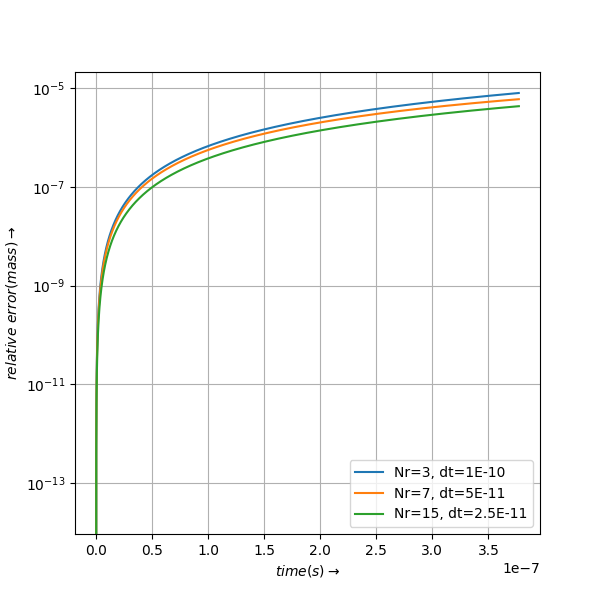
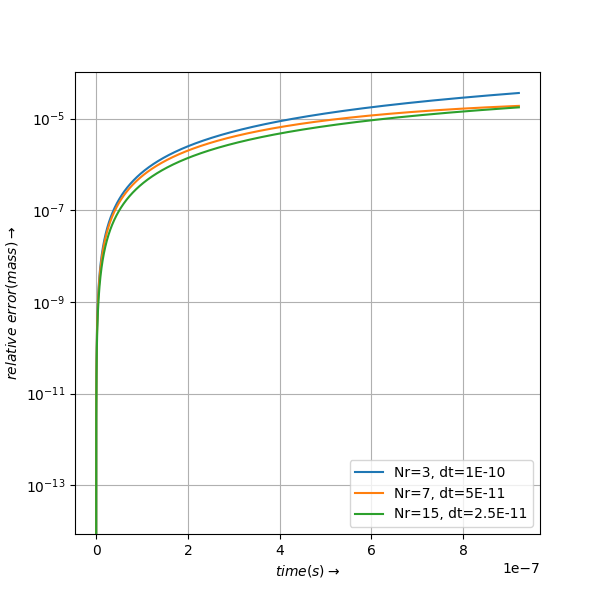
bte notes results minor changes

diff --git a/Notes/bte_notes.tex b/Notes/bte_notes.tex
@@ -533,11 +533,16 @@ This section presents, a numerical evaluation of the spatially homogeneous Boltz
 \end{itemize} The post collision velocities for the above collisions are summerized in \S\ref{sec:col_op_torch}.
 
 \subsection{Eigenmodes of the collision operator}
-For a assembled collision operator $L$, assuming linearity in $L$, we construct matrix, 
+For the assembled collision operator $L$, we construct the matrix, 
 \begin{equation}
 	E_t = Re\left( Q^{-1} \times  \text{diag}(\exp(\lambda_i t)) \times Q \right) 
-\end{equation}, where $L=Q^{-1} \Lambda Q$ is the eigen decomposition of $L$. If $L$ is linear the solution at time $t$ can be written as a linear combination of the columns vectors of $E_t$ where the coefficients are determined by the initial condition of the ODE. (see figures \ref{fig:eig_g_sep} \& \ref{fig:eig_g02_g012}  )
+\end{equation}, where $L=Q^{-1} \Lambda Q$ is the eigen decomposition of $L$. If $L$ is linear the solution at time $t$ can be written as a linear combination of the columns vectors of $E_t$ where the coefficients are determined by the initial condition of the ODE. (see figures \ref{fig:eig_g_sep} \& \ref{fig:eig_g02_g012})
 
+\begin{itemize}
+	\item For G0, first eigenmode ensures (the top right most figure in \ref{fig:eig_g_sep}) that if we start with Maxwellian the solution will stay at maxwellian for shorter periods in time. For longer periods the other modes will grow over time. The above is mainly due to the assembled collission operator is bound to the thermal velocity through the sampling of the experimental cross section data. 
+	\item For G1 and G2, at 1eV $E_t$ is close to the identity matrix, since the probability of triggering a excitation or ionization reaction is low, at 1eV. 
+	\item $E_t$ modes will depend on the background species densities, that scales the differential cross sections. 
+\end{itemize}
 \begin{figure}[!htbp]
 	\includegraphics[width=0.32\textwidth]{fig/g0_Nr_7_eig_ev_1.00E+00_NI_1.00E+18_N0_3.22E+22_NE_1.00E+18.png}
 	\includegraphics[width=0.32\textwidth]{fig/g1_Nr_7_eig_ev_1.00E+00_NI_1.00E+18_N0_3.22E+22_NE_1.00E+18.png}
@@ -553,7 +558,7 @@ For a assembled collision operator $L$, assuming linearity in $L$, we construct 
 \subsection{Handling changing temperature}
 Due to the kinetic energy loss in $e-Ar$ collisions, the thermal velocity decreases with the time. Since we use quadrature points on the normalized velocity (i.e., $\frac{v}{v_th}$) we need transform the solution from one temperature to another. If the temperature drop is significant and if we don't have enough basis functions in the radial direction, the projection between temperature cause an aliasing effect and gives larger tails. 
 
-Let $T_\alpha$ be the current temperature and we want to transform the solution to $T_\beta=T_\alpha + \epsilon$ where $\epsilon \in [-a,a]$ for $a>0$.
+Let $T_\alpha$ be the current temperature and we want to transform the solution to $T_\beta=T_\alpha (1+ \epsilon)$ where $\epsilon \in [-a,a]$ for $a>0$.
 
 \begin{align}
 W_{ij} &= \int_{\reals} M(v_\alpha) P_i(v_\beta) P_j(v_\alpha)dv \label{eq:basis_change}
@@ -567,7 +572,7 @@ W_{ij} &= \frac{n}{\sqrt{\pi}^{3}}  \int_{\reals}  \exp(-v_\alpha^2) P_i (v_\alp
 	\centering
 	\includegraphics[width=0.48\textwidth]{fig/basis_1ev_grid.png}
 	\includegraphics[width=0.48\textwidth]{fig/basis_1ev_tail.png}
-	\caption{The left most figure shows the $f(v)$ expansion evaluated at uniform grid in the radial direction followed by normed difference computation for increasing $N_r$ polynomials. For a given Maxwellian distribution (i.e., $h^{\alpha}=1$) we compute the projection of the solution to $T_\beta=T_\alpha + \epsilon$ with computed $W_{\beta\alpha}$, where $h^{\beta} = W_{\beta \alpha} h^{\alpha}$. The right most figure shows the tail of the computed $h^{\beta}$ with increasing polynomials in the radial direction.  \label{fig:basis_projection_error}
+	\caption{The left most figure shows the $f(v)$ expansion evaluated at uniform grid in the radial direction followed by normed difference computation for increasing $N_r$ polynomials. For a given Maxwellian distribution (i.e., $h^{\alpha}=1$) we compute the projection of the solution to $T_\beta=T_\alpha (1+\epsilon)$ with computed $W_{\beta\alpha}$, where $h^{\beta} = W_{\beta \alpha} h^{\alpha}$. The right most figure shows the tail of the computed $h^{\beta}$ with increasing polynomials in the radial direction.  \label{fig:basis_projection_error}
 	}
 \end{figure}
 \begin{figure}[!hbtp]
@@ -651,8 +656,9 @@ Therefore, for the convergence study it is reasonable to use a quadrature grid s
 
 \begin{figure}[H]
 	\centering
-	\includegraphics[width=0.8\textwidth]{fig/g0_temp_convergence.png}
-	\caption{Relative error in temperature compared at matching time points taking $N_r=31,dt=1.25E-11$ as the baseline over time horizon $T$=1e-06 s for G0 collision operator. }
+	\includegraphics[width=0.49\textwidth]{fig/g0_temp_convergence.png}
+	\includegraphics[width=0.49\textwidth]{fig/g0_dt_1.25000000E-11_Nr_31.dat.png}
+	\caption{Relative error in temperature (the left most figure) compared at matching time points taking $N_r=31,dt=1.25E-11$ as the baseline over time horizon $T$=1e-06 s for G0 collision operator. The right most figure shows the highest resolution, EEDF, mass growth, temperature evolution and the tail norm of the used basis functions.  }
 \end{figure}
 
 
@@ -663,25 +669,27 @@ Therefore, for the convergence study it is reasonable to use a quadrature grid s
 		\hline
 		$N_r$ & $dt=1E-10$ & $dt=5E-11$ & $dt=2.5E-11$ & $dt=1.25E-11$\\
 		\hline
-		 3  & \textcolor{red}{2.80491e-06} & 2.80545e-06 &  2.80572e-06  &  2.80586e-06 \\
-		 7  & 1.01959e-07 & \textcolor{red}{1.01808e-07} &  1.01734e-07  &  1.01697e-07 \\
-		15  & 2.2385e-08  & 2.2213e-08  &  \textcolor{red}{2.21275e-08}  &  2.20857e-08 \\
-		31  & 3.10214e-10 & 1.31967e-10 &  4.33156e-11  &  0 \\
+		
+		 3   & \textcolor{red}{1.40916e-05} & 1.40925e-05 &  1.40924e-05  &  1.40923e-05 \\
+		 7   & 6.06432e-07 & \textcolor{red}{6.06074e-07} &  6.05866e-07  &  6.05765e-07 \\
+		 15  & 1.54661e-07 & 1.5426e-07  &  \textcolor{red}{1.54052e-07}  &  1.5395e-07  \\
+		 31  & 7.26707e-10 & 3.08953e-10 &  1.01324e-10  &  0  \\
 		\hline
 	\end{tabular}
-\caption{Relative error in temperature compared at matching time points taking $N_r=31,dt=1.25E-11$ as the baseline over time horizon $T$=3.5e-07 s for G0 +G2 collision operator with enforced quasi neutrality.}
+\caption{Relative error in temperature compared at matching time points taking $N_r=31,dt=1.25E-11$ as the baseline over time horizon $T$=9e-07 s for G0 +G2 collision operator with enforced quasi neutrality.}
 \end{table}
 
 \begin{figure}[H]
 	\centering
-	\includegraphics[width=0.8\textwidth]{fig/g02_temp_convergence.png}
-	\caption{Relative error in temperature compared at matching time points taking $N_r=31,dt=1.25E-11$ as the baseline over time horizon $T$=3.5e-07 s for G0 + G2 collision operator. }
+	\includegraphics[width=0.48\textwidth]{fig/g02_temp_convergence.png}
+	\includegraphics[width=0.48\textwidth]{fig/g02_dt_1.25000000E-11_Nr_31.dat.png}
+	\caption{Relative error (the left most figure) in temperature compared at matching time points taking $N_r=31,dt=1.25E-11$ as the baseline over time horizon $T$=9e-07 s for G0 + G2 collision operator. The right most figure shows the highest resolution EEDF, mass growth, temperature evolution and the tail norm of the used basis functions.  }
 \end{figure}
 
 \begin{figure}[H]
 	\centering
 	\includegraphics[width=0.8\textwidth]{fig/g02_mass_convergence.png}
-	\caption{Relative error in number of electrons compared at matching time points taking $N_r=31,dt=1.25E-11$ as the baseline over time horizon $T$=3.5e-07 s for G0 + G2 collision operator. }
+	\caption{Relative error in number of electrons compared at matching time points taking $N_r=31,dt=1.25E-11$ as the baseline over time horizon $T$=9e-07 s for G0 + G2 collision operator. }
 \end{figure}
 
 
